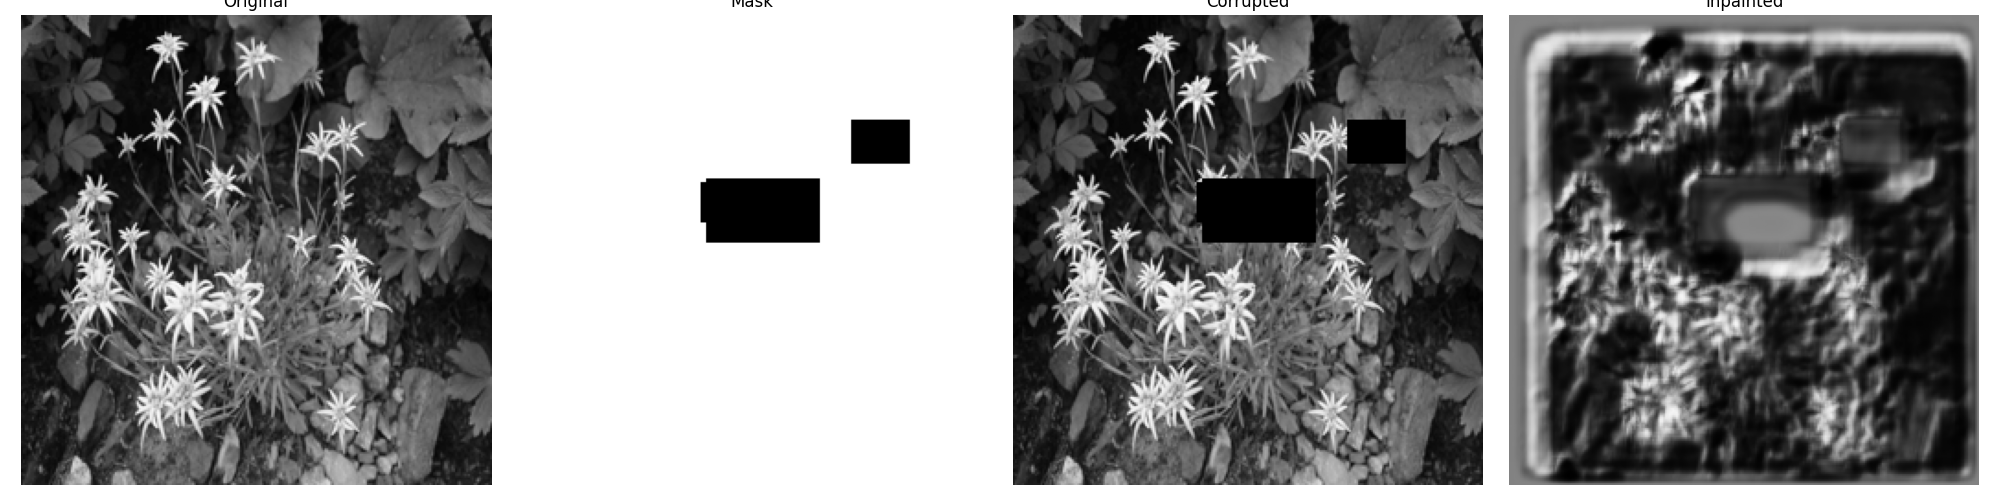
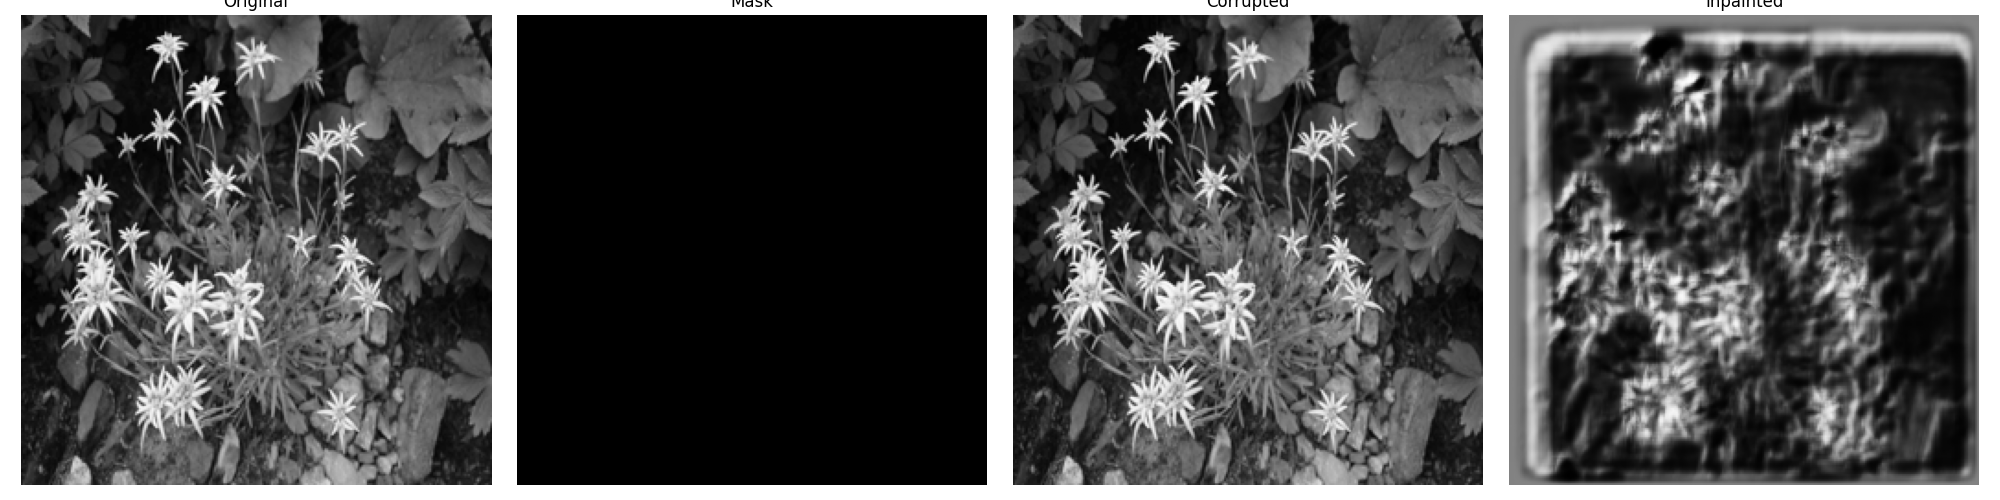
prove varie

diff --git a/pconv-unet/inference.py b/pconv-unet/inference.py
@@ -49,6 +49,29 @@ def preprocess_image(image_path, target_size=256):
     
     return img_array
 
+def preprocess_mask(mask_path, target_size=256):
+    """Load and preprocess image to grayscale tensor"""
+    # Load image
+    if mask_path:
+        img = Image.open(mask_path).convert('L')  # Convert to grayscale
+        img = img.resize((target_size, target_size))
+        img_array = np.array(img) / 255.0  # Normalize to [0, 1]
+        img_array = 1.0 - img_array
+    else:
+        # Create a sample gradient image if no image provided
+        img_array = np.zeros((target_size, target_size), dtype=np.float32)
+        for i in range(target_size):
+            for j in range(target_size):
+                img_array[i, j] = (i + j) / (2 * target_size)
+        
+        # Add some noise for realism
+        noise = np.random.randn(target_size, target_size) * 0.1
+        img_array += noise
+        img_array = np.clip(img_array, 0, 1).astype(np.float32)
+    
+    return img_array
+
+
 def inpaint_image(model, image, mask, device='cpu'):
     """Perform inpainting on the image using the mask"""
     # Convert to torch tensors **and cast to float32**
@@ -107,6 +130,7 @@ def main():
     parser = argparse.ArgumentParser(description='Inpaint images using trained PConvUNet')
     parser.add_argument('--model', type=str, default='pconv_unet.pth', help='Path to trained model')
     parser.add_argument('--image', type=str, default=None, help='Path to input image (or None for synthetic)')
+    parser.add_argument('--mask', type=str, default=None, help='Path to mask (or None for synthetic)')
     parser.add_argument('--output', type=str, default='inpainted_result.png', help='Path to save output visualization')
     parser.add_argument('--device', type=str, default='cpu', choices=['cpu', 'cuda'], help='Device to use')
     args = parser.parse_args()
@@ -126,9 +150,13 @@ def main():
     image = preprocess_image(args.image)
     print("Image preprocessed")
     
-    # Create mask
-    mask = create_random_mask(image.shape[0])
-    print("Mask created")
+    # Load/create mask
+    mask = preprocess_mask(args.mask)
+    print("Mask preprocessed")
+
+    # # Create mask
+    # mask = create_random_mask(image.shape[0])
+    # print("Mask created")
     
     # Create corrupted image
     corrupted = image * mask
